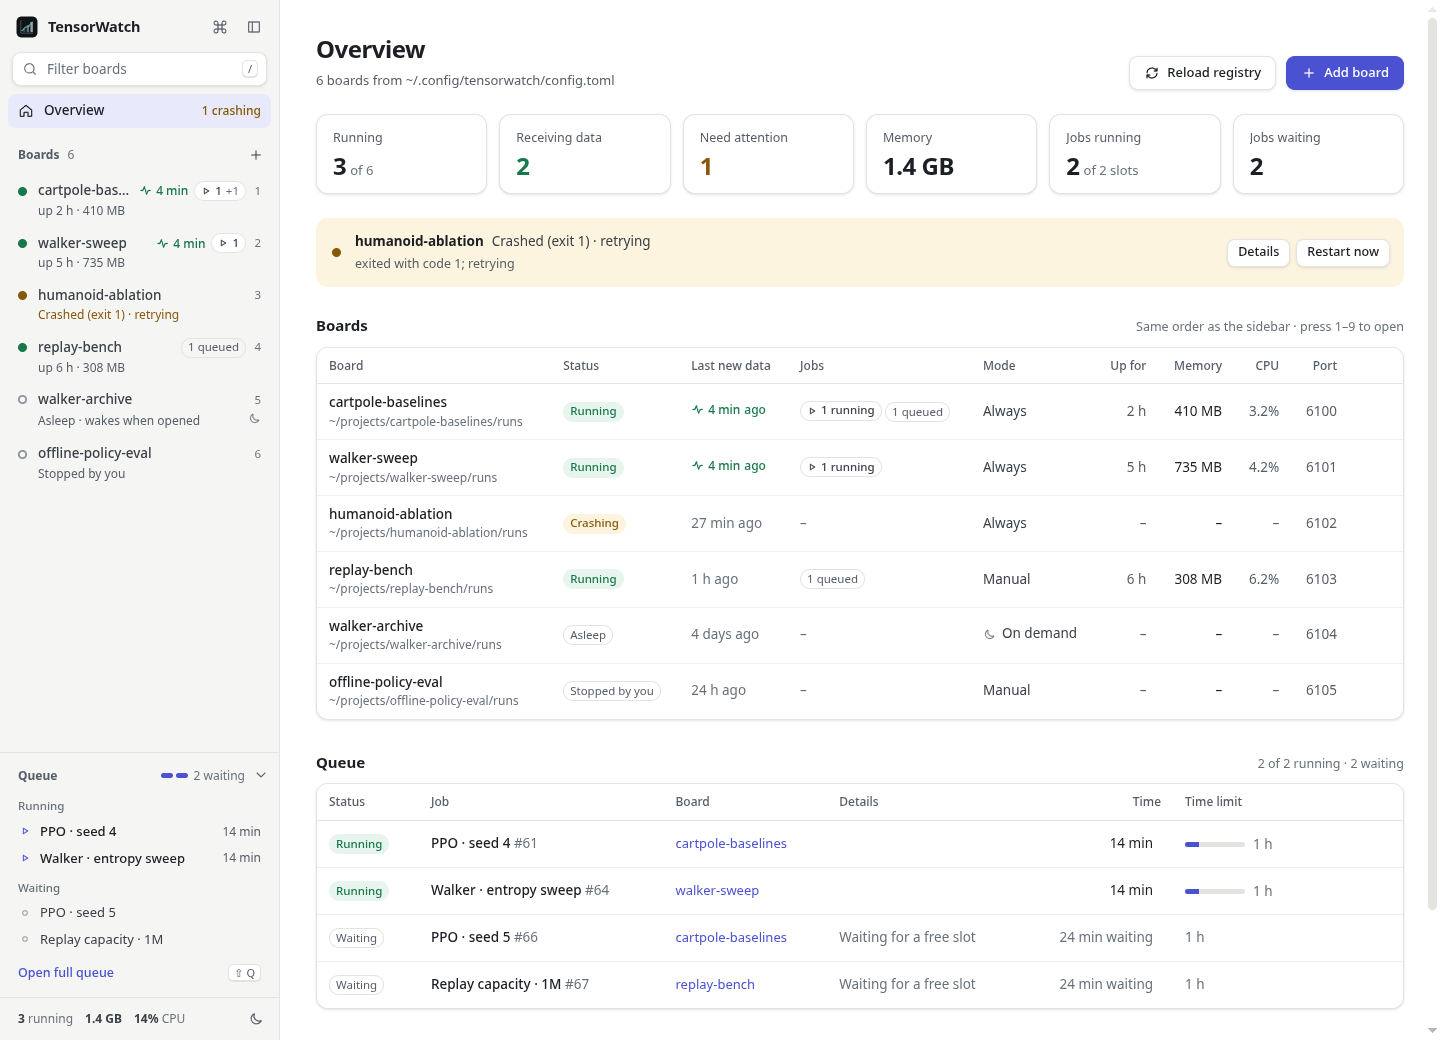
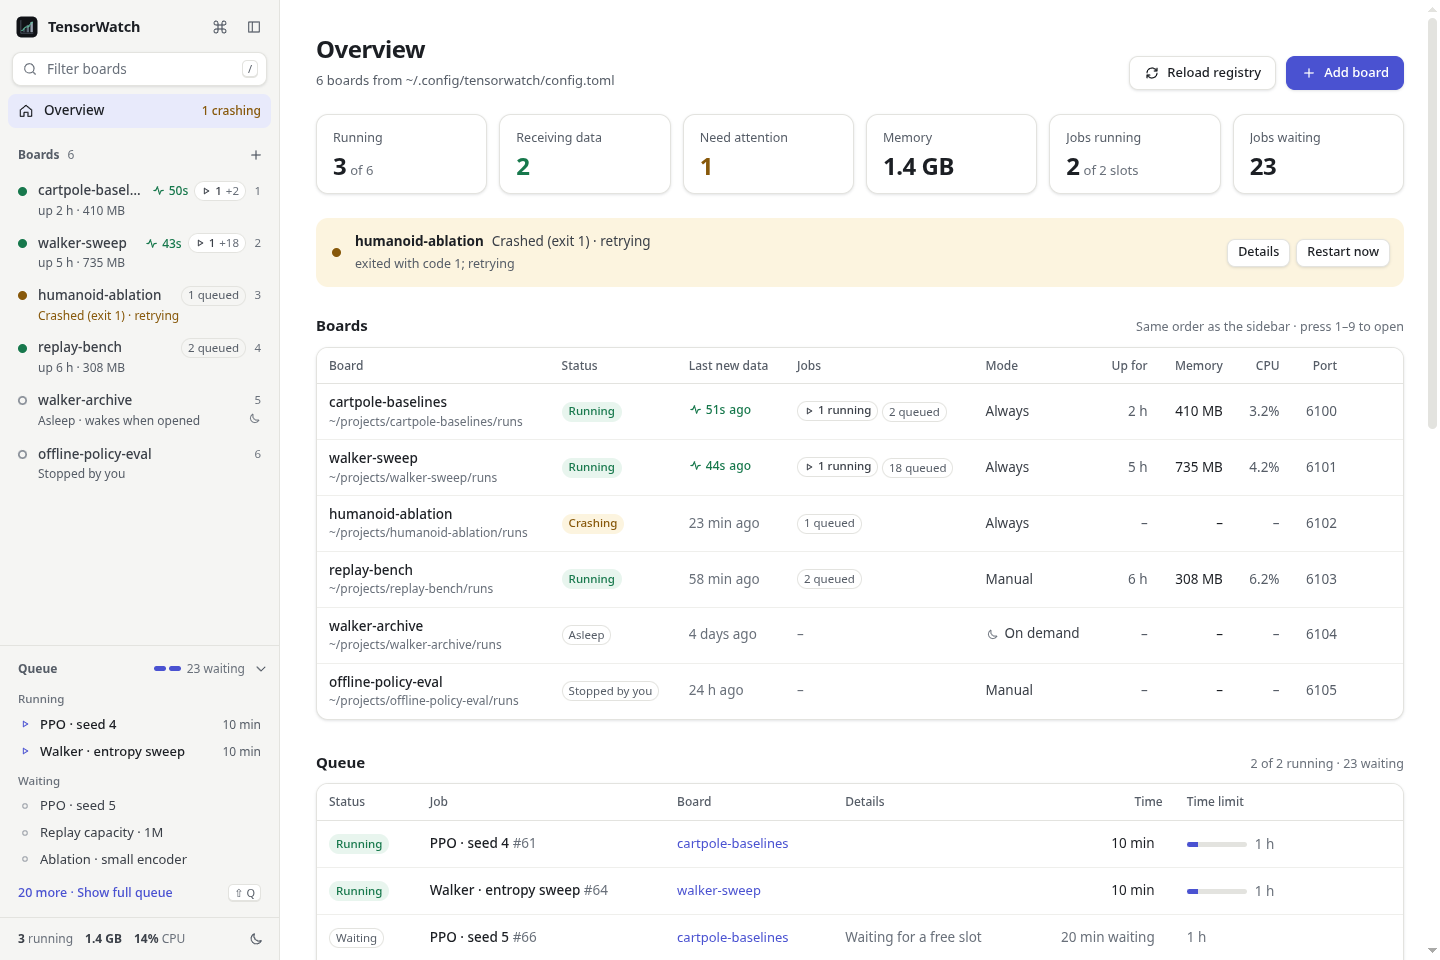
docs: explain TensorWatch setup and show both dashboard themes

diff --git a/README.md b/README.md
@@ -1,201 +1,160 @@
 # TensorWatch
 
-A local supervisor for TensorBoard.
+TensorWatch supervises TensorBoard on a Linux workstation. Register each
+project's log directory once, then switch between boards in one dashboard.
+A systemd user service brings your always-on boards back after a reboot. When
+[mlq](https://github.com/CarsonBurke/mlqueue) is running, the dashboard also
+shows which GPU jobs are writing to each board.
 
-You train across several repos, each with its own `runs/` (or `tb_logs/`, …).
-Starting `tensorboard --logdir …` by hand for each one does not scale: ports
-get forgotten, processes die on reboot, and you end up with a pile of tabs.
-
-1. Register each logdir once (`~/.config/tensorwatch/config.toml`).
-2. A `systemd --user` service keeps one TensorBoard process per board.
-3. One dashboard at `http://127.0.0.1:6005/` lists them and embeds the one
-   you pick.
-
-If [mlq](https://github.com/CarsonBurke/mlqueue) is running, the GPU queue
-shows up in the same sidebar, tagged with the board each job writes to.
-
-![TensorWatch overview showing board status, recent activity, and queued jobs](docs/dashboard-overview.webp)
+| Light overview | Dark board diagnostics |
+| --- | --- |
+| ![Board status, recent activity, and queued jobs in the light theme](docs/dashboard-overview.webp) | ![A retry countdown, recent logs, and the expanded sidebar queue in the dark theme](docs/dashboard-board-status.webp) |
 
 The screenshots use example boards and jobs.
 
-It is a single-user Linux workstation tool. Everything binds loopback. There
-is no authentication. It is not a TensorBoard fork and not a remote service.
+## Get started
 
-## Install
-
-Needs Python 3.11+ and `tensorboard` on `PATH`. No other Python packages.
+TensorWatch needs Python 3.11+ and `tensorboard` on your PATH. Run these
+commands from a TensorWatch checkout.
 
 ```bash
-cd tensorwatch
-bin/tensorwatch add ~/Documents/repositories/cleanrl/runs
-bin/tensorwatch scan ~/Documents/repositories --add   # find more logdirs
+bin/tensorwatch add ~/projects/cleanrl/runs
 bin/tensorwatch install
 bin/tensorwatch open
 ```
 
-`install` writes `~/.config/systemd/user/tensorwatch.service`, enables linger
-so boards start at boot, adds a desktop launcher, and puts `tensorwatch` on
-`PATH` (`~/.local/bin`). After that, open it from the app menu or
-`tensorwatch open`.
+`install` enables a systemd user service, enables linger so the service can start
+before you sign in, and installs an app launcher and a `tensorwatch` command in
+`~/.local/bin`. The dashboard is at <http://127.0.0.1:6005/> by default. To run
+in the foreground without installing the service, use `bin/tensorwatch serve`.
 
-Without systemd: `tensorwatch serve` (optionally `--window`).
+### Add boards
 
-## Daily use
+Give `tensorwatch add` one or more logdirs. Point it at a shared `runs/` or
+`tb_logs/` directory to see all the runs under it in one board. The command
+derives a board name from the repository, assigns a port, and reports if the
+path is already registered or has no event files yet.
 
 ```bash
-tensorwatch add ~/path/to/runs          # register (several paths at once is fine)
-tensorwatch rm cleanrl                  # unregister, by name or by logdir
-tensorwatch list                        # registry + live state
-tensorwatch open                        # dashboard window
-tensorwatch open cleanrl                # that board only
-tensorwatch set cleanrl autostart=on_demand
-tensorwatch logs cleanrl -f
-tensorwatch doctor
+tensorwatch scan ~/projects/cleanrl
+tensorwatch add ~/projects/cleanrl/runs_old --autostart on_demand
+tensorwatch list
 ```
 
-`scan` walks a tree for `events.out.tfevents*` files and groups them: a
-`runs/` or `tb_logs/` directory becomes one board, not one per timestamped run,
-and is probed rather than walked, so a logdir with thousands of runs costs the
-same as one with three.
+`scan` previews directories containing TensorBoard events. Add the paths you
+want individually, or pass `--add` to the scan to register every new match.
+In the dashboard, **Add board** offers path completion and finds unregistered
+logdirs near your existing boards. Press `Tab` to accept a directory and descend
+into it.
 
-`add` names a board after its repository (`cleanrl/runs` is `cleanrl`, a second
-logdir there is `cleanrl-runs_old`), refuses a logdir that already is a board,
-and says so when the directory holds no event files yet.
+Agents working in this checkout can use the
+[add-to-tensorwatch skill](.agents/skills/add-to-tensorwatch/SKILL.md).
+
+### Choose when a board runs
+
+| Policy | When it runs |
+| --- | --- |
+| **Always** | Starts with the service and retries after a crash. Default. |
+| **On demand** | Starts when a dashboard pane opens it and stops after 15 minutes idle by default. |
+| **Manual** | Starts when you open it, press Start, or run `tensorwatch start NAME`. |
+
+Change the policy in the open board's sidebar row, its `⋯` menu, or with
+`tensorwatch set NAME autostart=on_demand`. The choice is stored in the
+registry. Use **On demand** for archives you open occasionally.
+
+## Dashboard
+
+The overview shows running boards, new event data, boards that need attention,
+and the mlq queue. Open a board to see its TensorBoard pane. The sidebar row
+expands to show the logdir, port, policy, and controls. Click the logdir to copy
+it, or right-click a row for its actions.
+
+A board that is starting, stopped, or crashing shows its status and recent
+logs. A crash page includes the next retry time and points out recognizable
+log messages, such as a port in use or a file descriptor limit.
+
+The theme follows the system until you switch it in the sidebar footer.
+The dashboard follows the system's reduced-motion setting.
+
+When mlq is available, the sidebar lists running jobs first, then waiting jobs
+for the open board. Select **Show full queue** or press `Shift`+`Q` to expand
+the list and show job controls in the sidebar. Stop and cancel actions take a
+second click.
+
+Removing a board unregisters it and leaves its logdir on disk. Use the **Undo**
+toast to restore the registry entry, including its port and comments.
+
+| Key | Action |
+| --- | --- |
+| `Ctrl`+`K` | Search boards, jobs, and actions. `Shift`+`Enter` opens a board in its own window. |
+| `/` | Filter boards. Number shortcuts follow the filtered list. |
+| `1`–`9`, `Ctrl`+`1`–`0` | Open a board |
+| `g` | Show the overview |
+| `w` / `d` / `l` | Close and unload the open board / open it in its own window / view its log |
+| `Shift`+`R` | Reload the open board's pane |
+| `Enter` | Run the primary action on a board's status page |
+| `+` / `Delete` | Add a board / remove the focused board |
+| `q` / `Shift`+`Q` | Fold the sidebar queue / toggle the full list |
+| `[` | Collapse the sidebar to status dots |
+| `r` / `Esc` | Reload the registry / close the topmost menu, sheet, or panel |
 
 ## Registry
 
-Hand-editable TOML at `~/.config/tensorwatch/config.toml`. `add` / `rm` /
-`set` / `scan` edit it in place (comments and formatting stay). Reload with
-`r` in the dashboard or `systemctl --user reload tensorwatch`.
+The registry lives at `~/.config/tensorwatch/config.toml`. Commands such as
+`add`, `rm`, and `set` preserve comments when they edit it. After a manual edit,
+press `r` in the dashboard or run `systemctl --user reload tensorwatch`.
 
 ```toml
 [server]
-port = 6005          # dashboard
-port_base = 6100     # first auto-assigned board port (6006–6010 left free)
+port = 6005
+port_base = 6100
 
 [defaults]
 reload_interval = 60
 
 [[board]]
 name = "cleanrl"
-logdir = "~/Documents/repositories/cleanrl/runs"
+logdir = "~/projects/cleanrl/runs"
 port = 6100
-autostart = "always"              # always | on_demand | manual
+autostart = "always"
 ```
 
-Useful extras on a board: `logdir_spec`, `samples_per_plugin`, `args`,
-`command` (launcher other than `tensorboard`), `cwd`, `env`, `description`,
-`enabled`, `idle_timeout`. `[queue] enabled = false` hides the mlq panel.
+A board's port is stored in the registry. TensorBoard keeps pins and settings
+per browser origin, so changing a board's port leaves its saved UI state on
+the old port.
 
-Ports are sticky. TensorBoard stores pins and UI state per origin, so an
-auto-assigned port is written back and never reused for a different logdir.
-Changing a board's port by hand leaves its saved UI on the old one.
+Board settings include `logdir_spec`, `samples_per_plugin`, `args`, `command`,
+`cwd`, `env`, `description`, `enabled`, and `idle_timeout`. The dashboard keeps
+two TensorBoard panes mounted by default. Set `[server] keep_warm` to change it.
+Set `[queue] enabled = false` and restart the service to hide mlq.
 
-## Autostart
+## CLI reference
 
-| Policy | When it runs |
+| Command | Use |
 | --- | --- |
-| `always` | With the service, restarted forever. Default. |
-| `on_demand` | When you open it; stopped after 15 min idle. Use for huge archives. |
-| `manual` | Only `tensorwatch start NAME` or the dashboard button. |
+| `add PATH…` / `rm NAME…` | Register logdirs / unregister by name or logdir |
+| `scan DIR [--add]` | Preview logdirs or register all new matches |
+| `list` / `status [NAME]` | List registered boards / see live status |
+| `set NAME KEY=VALUE …` | Change board settings |
+| `enable NAME` / `disable NAME` | Enable or disable supervision while keeping the registry entry |
+| `start NAME` / `stop NAME` / `restart NAME` | Control a board |
+| `logs NAME [-f]` | Read or follow a board's TensorBoard output |
+| `open [NAME]` | Open the dashboard or a board in an app window |
+| `queue` | Show the mlq queue as TensorWatch sees it |
+| `install` / `uninstall` | Manage the user service and launcher |
+| `serve` | Run the supervisor and dashboard in the foreground |
+| `doctor` | Check registry settings, ports, commands, and logdirs |
 
-The open board's row in the dashboard has an **Always / On demand / Manual**
-switch, and the `⋯` menu offers the same choice for any board. It writes the
-registry, so the choice survives a restart, and the new policy takes over at
-once: an on-demand board keeps one idle window and then stops, an always board
-comes back up.
+Run `tensorwatch <command> --help` for flags.
 
-## Commands
+## Troubleshooting
 
-| Command | |
-| --- | --- |
-| `add PATH…` | Register one or more logdirs |
-| `rm NAME…` | Unregister, by name or by logdir |
-| `set NAME KEY=VALUE …` | Change a board (`autostart=on_demand`, `port=6104`, …) |
-| `enable` / `disable NAME` | Leave it in the file, stop supervising it |
-| `scan DIR [--add]` | Discover logdirs |
-| `list` / `status [NAME]` | Registry / live state |
-| `start` / `stop` / `restart NAME` | Control a running board |
-| `logs NAME [-f]` | That board's TensorBoard output |
-| `open [NAME]` | Dashboard (or one board) in an app window |
-| `queue` | mlq queue as the dashboard sees it |
-| `doctor` | Registry, ports, commands, missing logdirs |
-| `serve` | Supervisor + dashboard in the foreground |
-| `install` / `uninstall` | Service, launcher, PATH symlink |
-
-`tensorwatch <cmd> -h` for flags.
-
-## Dashboard
-
-The sidebar lists boards in registry order, so their numbers never move. Each
-row says what the board is doing in plain words: `up 3 h · 412 MB`,
-`Asleep · wakes when opened`, `Crashed (exit 1) · retrying`,
-`up 6 min · sleeps in 9 min`. A green pulse with an age means new event data
-is arriving, and a pill counts the board's mlq jobs (`▶ 1 +2`: one running, two
-waiting). Opening a board expands its row with the logdir (click to copy), the
-port, the policy switch and its actions. Right-click a row, or use its `⋯`
-button or `Shift`+`F10`, for everything else.
-
-With nothing open, the main area is an **Overview**: totals, a card for each
-board that needs attention, every board in a table, and the queue. A board that
-isn't serving gets its own page instead of a broken frame: crashing (with a
-live countdown to the next try), can't start (missing logdir, port taken),
-waking up, asleep, stopped or disabled. Each page shows the recent log and,
-where the message, exit code or log gives it away, a likely cause and how to
-check it (out of open files, killed by the OOM killer, port in use).
-
-![Dark dashboard showing a board's retry countdown, run policy, and recent logs](docs/dashboard-board-status.webp)
-
-The sidebar's queue shows running jobs, then the open board's waiting jobs,
-then others up to `[queue] visible`. `Shift`+`Q` opens the full queue below
-the board, where stopping or cancelling a job takes a second click.
-
-| Key | |
-| --- | --- |
-| `Ctrl`+`K` | Search boards, jobs and actions (`Shift`+`Enter` opens a board in its own window) |
-| `/` | Filter the sidebar; digits follow the filtered list |
-| `1`–`9`, `Ctrl`+`1`–`0` | Open a board |
-| `g` | Overview |
-| `w` / `d` / `l` | Close and unload the open board / own window / its log |
-| `Shift`+`R` | Reload the open board's pane |
-| `Enter` | On a status page: restart, try again or start |
-| `+` | Add a board |
-| `Delete` | Remove the focused board |
-| `q` / `Shift`+`Q` | Fold the sidebar queue / open the full queue |
-| `[` | Collapse the sidebar to status dots |
-| `r` | Reload the registry |
-| `Esc` | Close the topmost menu, sheet or panel |
-
-The theme follows the system; the button in the sidebar footer switches it, and
-the choice is remembered in the browser. The dashboard respects the system's
-reduced-motion preference.
-
-**Adding.** The logdir field completes directories as you type (`Tab` accepts
-and descends, `↑`/`↓` choose) and marks the ones that hold runs. Name and
-policy are optional. Below the form, "Found near your boards" lists
-unregistered logdirs in the repositories next to the ones you already watch;
-each can be added with one click.
-
-**Removing** asks nothing and is undoable: the confirmation offers `Undo` for a
-few seconds, which puts the board's registry block back where it was, port and
-comments included. Several removals can be undone in any order. The removed
-block stays inside the manager and the dashboard only holds a token for it, so
-the unauthenticated API never accepts registry text.
-
-"New data" is the newest `events.out.tfevents*` write under a board's logdir,
-so it counts any run under `runs/` no matter who started it.
-
-The dashboard only keeps a few TensorBoard UIs mounted (`keep_warm`, default
-2); `w` unloads one right away. The processes themselves follow each board's
-autostart policy.
-
-## Notes
-
-- Loopback only. A non-loopback `host` or `--bind_all` is rejected unless
-  `[server] allow_remote = true`. TensorBoard has no auth.
-- State and logs: `~/.local/state/tensorwatch/`.
-- TensorBoard opens one file per event file, so the service sets
-  `LimitNOFILE=65536`. With the usual 1024 a board with thousands of runs loads
-  nothing and says "No dashboards are active for the current data set";
-  `doctor` flags that.
-- Tests: `python3 -m pytest tests -q`.
+- Run `tensorwatch doctor` if a board cannot start. Read board logs with
+  `tensorwatch logs NAME` and service logs with `journalctl --user -u tensorwatch`.
+- For boards with thousands of event files, check the file descriptor limit.
+  The installed service sets `LimitNOFILE=65536`. A low limit can leave
+  TensorBoard showing “No dashboards are active for the current data set.”
+- TensorWatch and TensorBoard bind to loopback by default and have no
+  authentication. Listening beyond loopback requires
+  `[server] allow_remote = true`.
+- Run `python3 -m pytest tests -q` from the checkout to run the tests.
